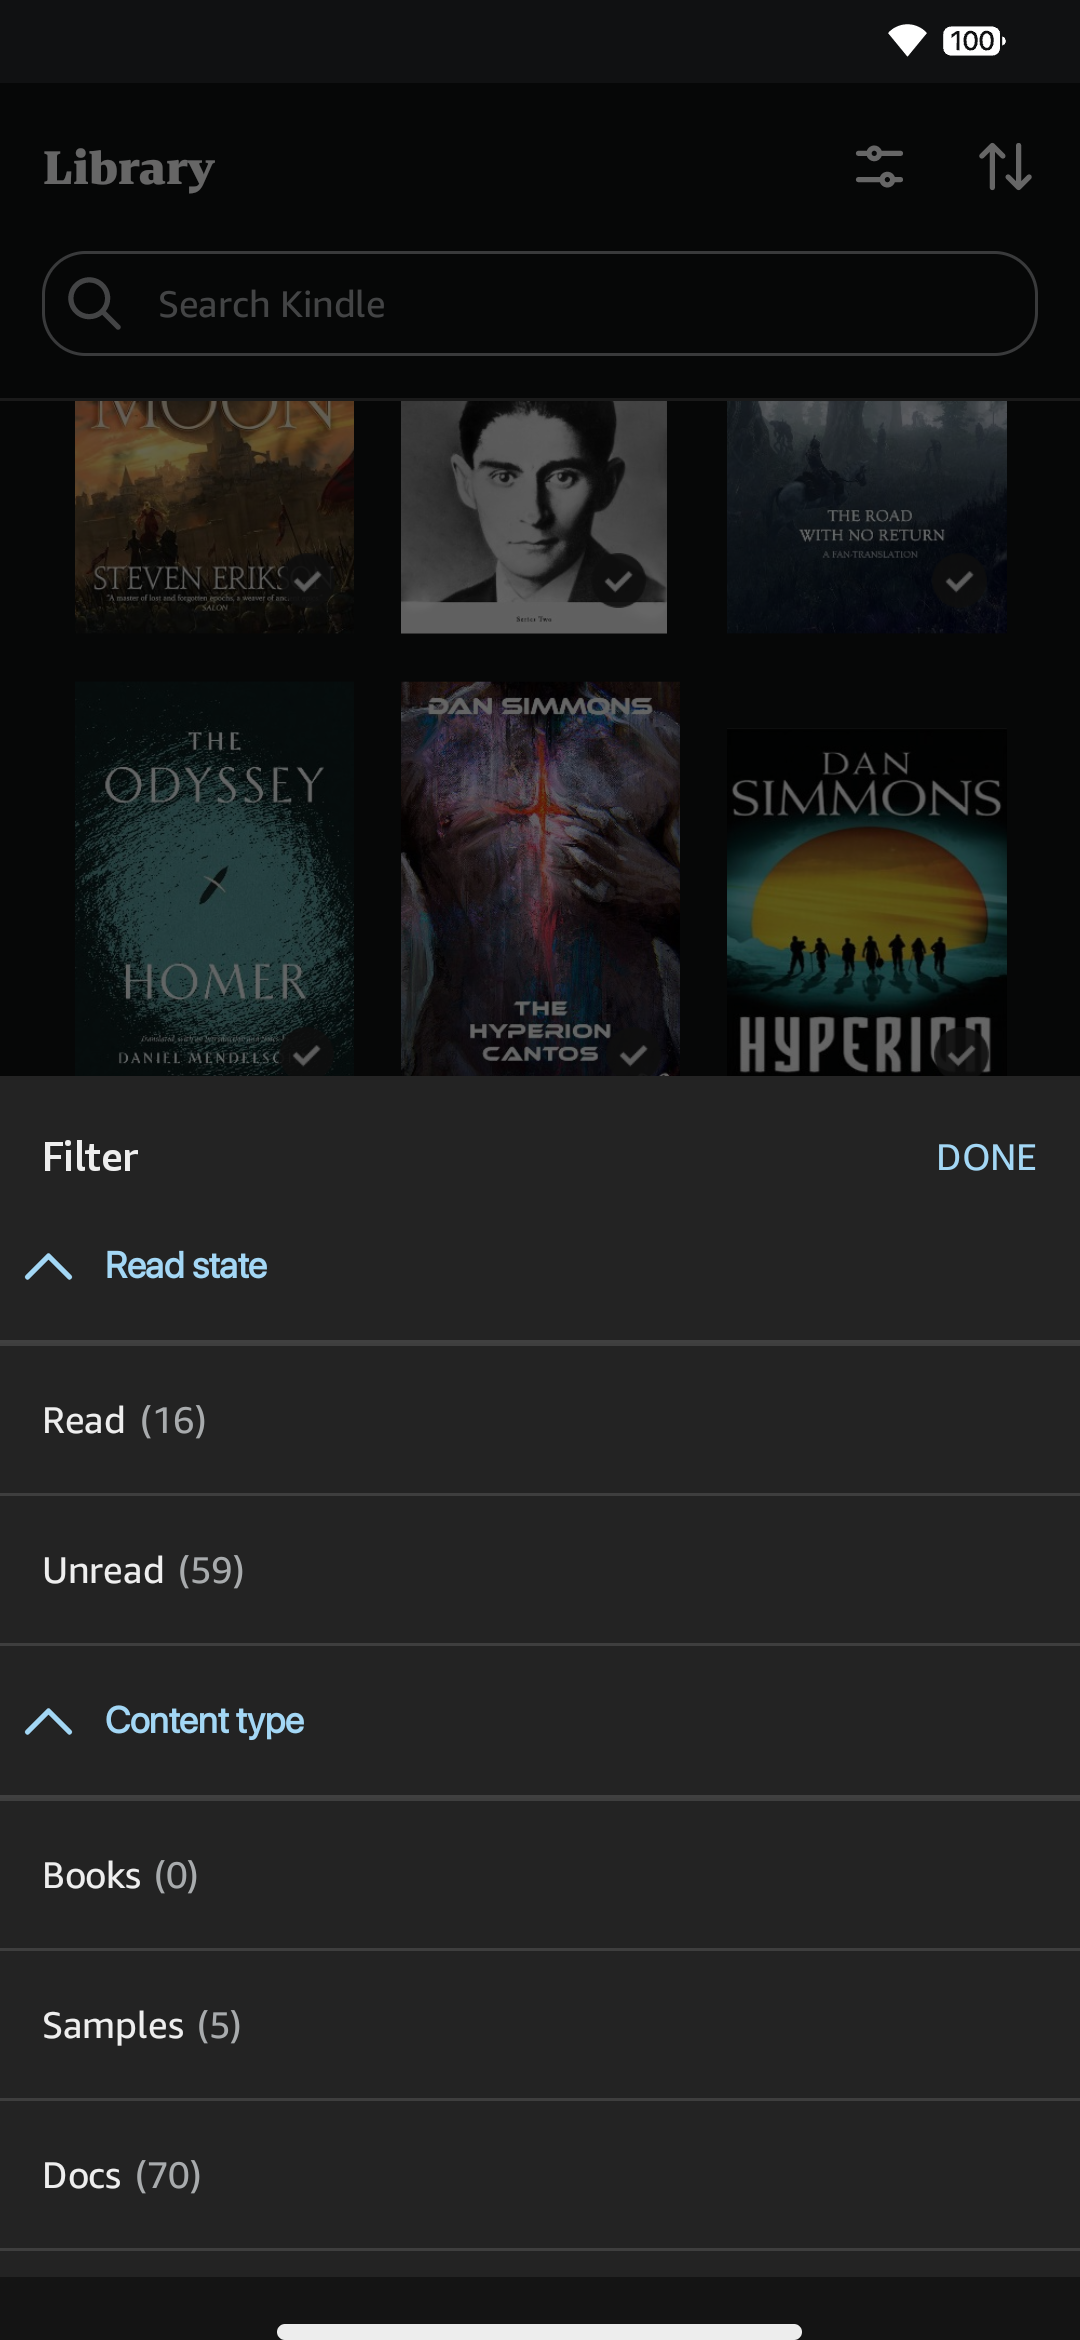
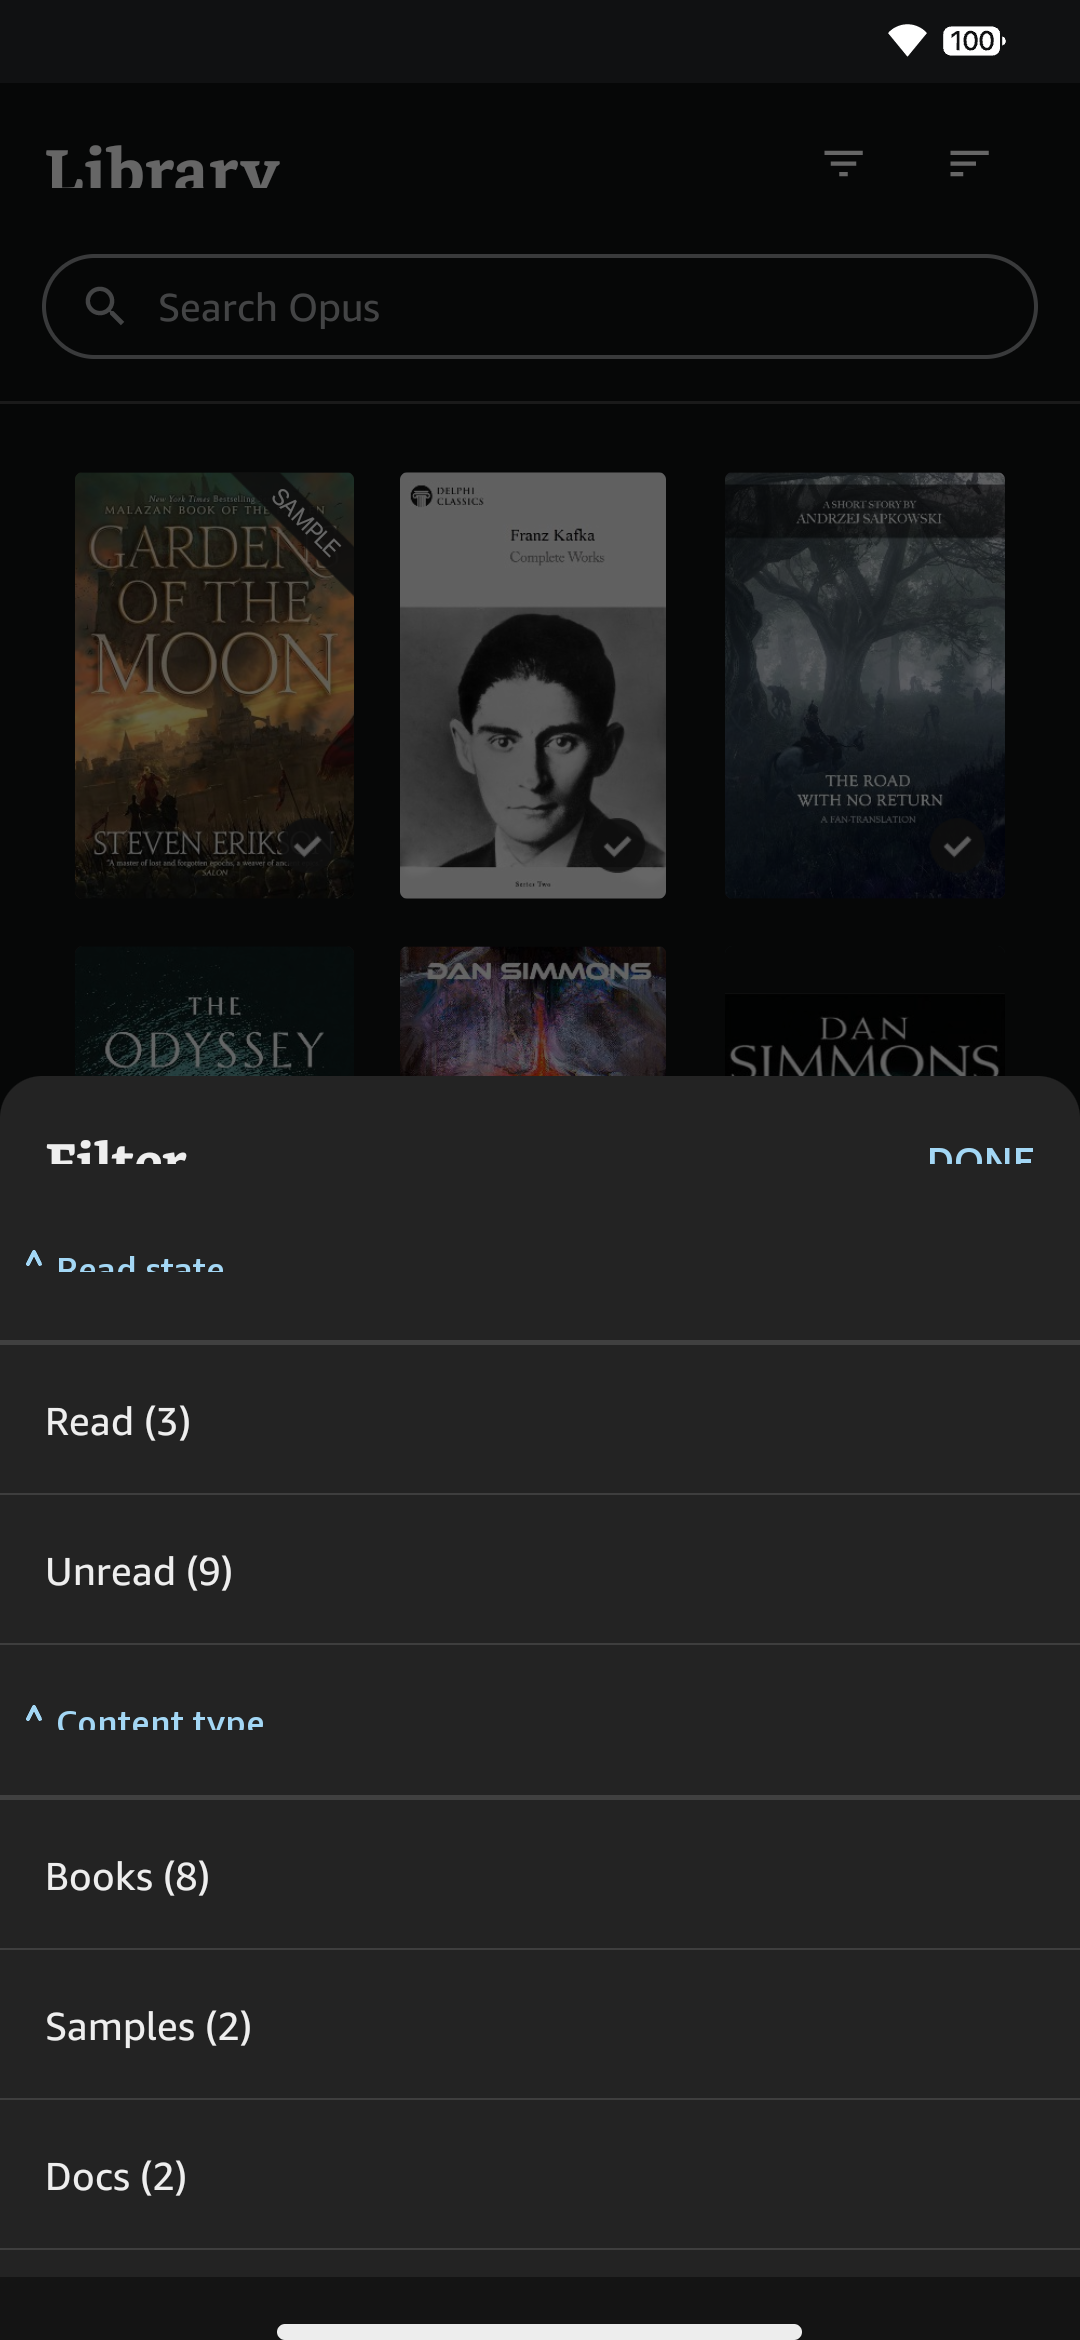
feat(real-ui): calibrate D05 Library filter sheet and verify with honest harness

diff --git a/app/src/main/java/app/opusreader/ui/screens/LibraryFilterSheet.kt b/app/src/main/java/app/opusreader/ui/screens/LibraryFilterSheet.kt
@@ -1,15 +1,18 @@
 package app.opusreader.ui.screens
 
-import androidx.compose.foundation.Image
+import androidx.compose.foundation.Canvas
 import androidx.compose.foundation.background
 import androidx.compose.foundation.clickable
 import androidx.compose.foundation.layout.Box
+import androidx.compose.foundation.layout.Column
 import androidx.compose.foundation.layout.Row
-import androidx.compose.foundation.layout.fillMaxSize
+import androidx.compose.foundation.layout.Spacer
 import androidx.compose.foundation.layout.fillMaxWidth
 import androidx.compose.foundation.layout.height
 import androidx.compose.foundation.layout.padding
 import androidx.compose.foundation.layout.size
+import androidx.compose.foundation.layout.width
+import androidx.compose.foundation.shape.RoundedCornerShape
 import androidx.compose.material.icons.Icons
 import androidx.compose.material.icons.filled.Check
 import androidx.compose.material3.HorizontalDivider
@@ -22,25 +25,30 @@ import androidx.compose.runtime.remember
 import androidx.compose.runtime.setValue
 import androidx.compose.ui.Alignment
 import androidx.compose.ui.Modifier
-import androidx.compose.ui.layout.ContentScale
-import androidx.compose.ui.res.painterResource
+import androidx.compose.ui.draw.clip
+import androidx.compose.ui.graphics.Color
+import androidx.compose.ui.graphics.Path
+import androidx.compose.ui.graphics.StrokeCap
+import androidx.compose.ui.graphics.StrokeJoin
+import androidx.compose.ui.graphics.drawscope.Stroke
 import androidx.compose.ui.text.font.FontWeight
 import androidx.compose.ui.tooling.preview.Preview
 import androidx.compose.ui.unit.dp
 import androidx.compose.ui.unit.sp
-import app.opusreader.R
 import app.opusreader.data.Book
 import app.opusreader.data.ContentType
 import app.opusreader.data.LibraryFilterState
 import app.opusreader.data.SampleBooks
-import app.opusreader.ui.components.OpusBottomSheetContainer
-import app.opusreader.ui.theme.OpusDivider
+import app.opusreader.ui.theme.AmazonEmberFontFamily
+import app.opusreader.ui.theme.BookerlyFontFamily
 import app.opusreader.ui.theme.OpusReaderTheme
-import app.opusreader.ui.theme.OpusScrim
-import app.opusreader.ui.theme.OpusSpacing
-import app.opusreader.ui.theme.OpusTextPrimary
-import app.opusreader.ui.theme.OpusTextSecondary
 import app.opusreader.ui.theme.refPx
+
+private val FilterSheetBg = Color(0xFF232323)
+private val FilterBlue = Color(0xFFA3D7F5)
+private val FilterTextPrimary = Color(0xFFEEEEEE)
+private val FilterSectionDivider = Color(0xFF404040)
+private val FilterItemDivider = Color(0xFF3E3E3E)
 
 @Composable
 fun LibraryFilterSheet(
@@ -54,66 +62,165 @@ fun LibraryFilterSheet(
 
     val readCount = if (allBooks.isNotEmpty()) allBooks.count { it.isRead } else 16
     val unreadCount = if (allBooks.isNotEmpty()) allBooks.count { !it.isRead } else 59
-    val booksCount = if (allBooks.isNotEmpty()) allBooks.count { it.contentType == ContentType.BOOK } else 6
+    val booksCount = if (allBooks.isNotEmpty()) allBooks.count { it.contentType == ContentType.BOOK } else 0
     val samplesCount = if (allBooks.isNotEmpty()) allBooks.count { it.contentType == ContentType.SAMPLE } else 5
     val docsCount = if (allBooks.isNotEmpty()) allBooks.count { it.contentType == ContentType.DOC } else 70
 
-    OpusBottomSheetContainer(
-        title = "Filter",
-        doneButtonText = "DONE",
-        onDoneClick = { onApplyFilter(state) },
-        onCloseClick = onCloseClick,
-        modifier = modifier
-    ) {
-        SectionTitle("Read state")
+    val shape = RoundedCornerShape(topStart = 16.dp, topEnd = 16.dp)
 
+    Column(
+        modifier = modifier
+            .fillMaxWidth()
+            .height(1201.refPx)
+            .clip(shape)
+            .background(FilterSheetBg)
+    ) {
+        // Distance from sheet top (y=1076) to Header (y=1140): 58 px
+        Spacer(modifier = Modifier.height(58.refPx))
+
+        // Header: Filter & DONE (y=1140..1170, h=30 px)
+        Row(
+            modifier = Modifier
+                .fillMaxWidth()
+                .height(30.refPx)
+                .padding(start = 45.refPx, end = 45.refPx),
+            verticalAlignment = Alignment.CenterVertically
+        ) {
+            Text(
+                text = "Filter",
+                fontFamily = BookerlyFontFamily,
+                fontWeight = FontWeight.Bold,
+                fontSize = 20.sp,
+                color = FilterTextPrimary,
+                modifier = Modifier.weight(1f)
+            )
+
+            Text(
+                text = "DONE",
+                fontFamily = AmazonEmberFontFamily,
+                fontWeight = FontWeight.Bold,
+                fontSize = 15.sp,
+                color = FilterBlue,
+                modifier = Modifier.clickable { onApplyFilter(state) }
+            )
+        }
+
+        // Distance from Header (1170) to Section 1 (1250): 79 px
+        Spacer(modifier = Modifier.height(79.refPx))
+
+        // Section 1: ∧ Read state (y=1250..1279, h=29 px)
+        FilterSectionHeader(title = "Read state", height = 29.refPx)
+
+        // Distance to Divider: 68 px
+        Spacer(modifier = Modifier.height(68.refPx))
+
+        // Divider below Section 1 (y=1340..1345, h=5 px)
+        HorizontalDivider(color = FilterSectionDivider, thickness = 5.refPx)
+
+        // Row 1: Read (16) (starts y=1345, text y=1405..1438, ends 1493, h=148 px)
         FilterItemRow(
             label = "Read ($readCount)",
             selected = state.showRead,
             onClick = { state = state.copy(showRead = !state.showRead) }
         )
+
+        // Divider (y=1493..1495, h=2 px)
+        HorizontalDivider(color = FilterItemDivider, thickness = 2.refPx)
+
+        // Row 2: Unread (59) (starts y=1495, text y=1555..1588, ends 1643, h=148 px)
         FilterItemRow(
             label = "Unread ($unreadCount)",
             selected = state.showUnread,
             onClick = { state = state.copy(showUnread = !state.showUnread) }
         )
 
-        HorizontalDivider(color = OpusDivider, thickness = 1.dp)
+        // Divider (y=1643..1645, h=2 px)
+        HorizontalDivider(color = FilterItemDivider, thickness = 2.refPx)
 
-        SectionTitle("Content type")
+        // Distance to Section 2 (1705): 51 px
+        Spacer(modifier = Modifier.height(51.refPx))
 
+        // Section 2: ∧ Content type (y=1705..1739, h=34 px)
+        FilterSectionHeader(title = "Content type", height = 34.refPx)
+
+        // Distance to Divider: 65 px
+        Spacer(modifier = Modifier.height(65.refPx))
+
+        // Divider below Section 2 (y=1795..1800, h=5 px)
+        HorizontalDivider(color = FilterSectionDivider, thickness = 5.refPx)
+
+        // Row 3: Books (0) (starts y=1800, text y=1860..1893, ends 1948, h=148 px)
         FilterItemRow(
             label = "Books ($booksCount)",
             selected = state.showBooks,
             onClick = { state = state.copy(showBooks = !state.showBooks) }
         )
+
+        // Divider (y=1948..1950, h=2 px)
+        HorizontalDivider(color = FilterItemDivider, thickness = 2.refPx)
+
+        // Row 4: Samples (5) (starts y=1950, text y=2010..2045, ends 2098, h=148 px)
         FilterItemRow(
             label = "Samples ($samplesCount)",
             selected = state.showSamples,
             onClick = { state = state.copy(showSamples = !state.showSamples) }
         )
+
+        // Divider (y=2098..2100, h=2 px)
+        HorizontalDivider(color = FilterItemDivider, thickness = 2.refPx)
+
+        // Row 5: Docs (70) (starts y=2100, text y=2160..2193, ends 2248, h=148 px)
         FilterItemRow(
             label = "Docs ($docsCount)",
             selected = state.showDocs,
             onClick = { state = state.copy(showDocs = !state.showDocs) }
         )
+
+        // Divider (y=2248..2250, h=2 px)
+        HorizontalDivider(color = FilterItemDivider, thickness = 2.refPx)
+
+        // Distance to sheet bottom: 25 px
+        Spacer(modifier = Modifier.height(25.refPx))
     }
 }
 
 @Composable
-private fun SectionTitle(title: String) {
-    Text(
-        text = title,
-        color = OpusTextSecondary,
-        fontSize = 13.sp,
-        fontWeight = FontWeight.SemiBold,
-        modifier = Modifier.padding(
-            start = OpusSpacing.standard,
-            end = OpusSpacing.standard,
-            top = OpusSpacing.medium,
-            bottom = OpusSpacing.small
+private fun FilterSectionHeader(title: String, height: androidx.compose.ui.unit.Dp = 30.refPx) {
+    Row(
+        modifier = Modifier
+            .fillMaxWidth()
+            .height(height)
+            .padding(start = 24.refPx),
+        verticalAlignment = Alignment.CenterVertically
+    ) {
+        Canvas(modifier = Modifier.size(20.refPx, 20.refPx)) {
+            val strokeWidth = 4.refPx.toPx()
+            val path = Path().apply {
+                moveTo(strokeWidth, size.height - strokeWidth)
+                lineTo(size.width / 2f, strokeWidth)
+                lineTo(size.width - strokeWidth, size.height - strokeWidth)
+            }
+            drawPath(
+                path = path,
+                color = FilterBlue,
+                style = Stroke(
+                    width = strokeWidth,
+                    cap = StrokeCap.Round,
+                    join = StrokeJoin.Round
+                )
+            )
+        }
+
+        Spacer(modifier = Modifier.width(12.refPx))
+
+        Text(
+            text = title,
+            fontFamily = AmazonEmberFontFamily,
+            fontWeight = FontWeight.Bold,
+            fontSize = 13.5.sp,
+            color = FilterBlue
         )
-    )
+    }
 }
 
 @Composable
@@ -122,27 +229,37 @@ private fun FilterItemRow(
     selected: Boolean,
     onClick: () -> Unit
 ) {
-    Row(
+    Box(
         modifier = Modifier
             .fillMaxWidth()
-            .clickable { onClick() }
-            .padding(horizontal = OpusSpacing.standard, vertical = 14.dp),
-        verticalAlignment = Alignment.CenterVertically
+            .height(148.refPx)
+            .clickable(onClick = onClick)
+            .padding(start = 45.refPx, end = 45.refPx),
+        contentAlignment = Alignment.TopStart
     ) {
-        Text(
-            text = label,
-            color = OpusTextPrimary,
-            fontSize = 15.sp,
-            modifier = Modifier.weight(1f)
-        )
-
-        if (selected) {
-            Icon(
-                imageVector = Icons.Default.Check,
-                contentDescription = "Selected",
-                tint = OpusTextPrimary,
-                modifier = Modifier.size(20.dp)
+        Row(
+            modifier = Modifier
+                .fillMaxWidth()
+                .padding(top = 49.refPx),
+            verticalAlignment = Alignment.CenterVertically
+        ) {
+            Text(
+                text = label,
+                fontFamily = AmazonEmberFontFamily,
+                fontWeight = FontWeight.Normal,
+                fontSize = 15.sp,
+                color = FilterTextPrimary,
+                modifier = Modifier.weight(1f)
             )
+
+            if (selected) {
+                Icon(
+                    imageVector = Icons.Default.Check,
+                    contentDescription = "Selected",
+                    tint = FilterBlue,
+                    modifier = Modifier.size(20.dp)
+                )
+            }
         }
     }
 }

diff --git a/app/src/main/java/app/opusreader/navigation/OpusNavHost.kt b/app/src/main/java/app/opusreader/navigation/OpusNavHost.kt
@@ -234,7 +234,8 @@ fun OpusNavHost(
                             onApplyFilter = { newFilter ->
                                 bookRepository.setFilter(newFilter)
                                 navController.popBackStack()
-                            }
+                            },
+                            modifier = Modifier.align(Alignment.BottomCenter)
                         )
                     }
                 }
@@ -272,7 +273,8 @@ fun OpusNavHost(
                                     LibraryViewMode.LIST -> navController.navigate(NavRoutes.LIBRARY_LIST)
                                     LibraryViewMode.COLLECTIONS -> navController.navigate(NavRoutes.COLLECTIONS)
                                 }
-                            }
+                            },
+                            modifier = Modifier.align(Alignment.BottomCenter)
                         )
                     }
                 }

diff --git a/app/src/main/java/app/opusreader/data/BookRepository.kt b/app/src/main/java/app/opusreader/data/BookRepository.kt
@@ -161,10 +161,13 @@ class FakeBookRepository(
         filter: LibraryFilterState,
         sort: LibrarySortOrder
     ): List<Book> {
+        val hasReadFilter = filter.showRead || filter.showUnread
+        val hasTypeFilter = filter.showBooks || filter.showSamples || filter.showDocs
+
         return books
             .filter { book ->
-                val readMatch = if (book.isRead) filter.showRead else filter.showUnread
-                val typeMatch = when (book.contentType) {
+                val readMatch = if (!hasReadFilter) true else (if (book.isRead) filter.showRead else filter.showUnread)
+                val typeMatch = if (!hasTypeFilter) true else when (book.contentType) {
                     ContentType.BOOK -> filter.showBooks
                     ContentType.SAMPLE -> filter.showSamples
                     ContentType.DOC -> filter.showDocs

diff --git a/app/src/main/java/app/opusreader/data/Book.kt b/app/src/main/java/app/opusreader/data/Book.kt
@@ -34,11 +34,11 @@ enum class LibraryViewMode {
 }
 
 data class LibraryFilterState(
-    val showRead: Boolean = true,
-    val showUnread: Boolean = true,
-    val showBooks: Boolean = true,
-    val showSamples: Boolean = true,
-    val showDocs: Boolean = true
+    val showRead: Boolean = false,
+    val showUnread: Boolean = false,
+    val showBooks: Boolean = false,
+    val showSamples: Boolean = false,
+    val showDocs: Boolean = false
 )
 
 data class CollectionItem(

diff --git a/docs/FIDELITY_REPORT.md b/docs/FIDELITY_REPORT.md
@@ -8,7 +8,7 @@ Thresholds per screen (outside masks):
 
 | ID | Screen Name | Reference File | Diff % | Worst Offset (px) | Liveness | Scroll | Status | Notes |
 |---|---|---|---|---|---|---|---|---|
-| D04 | Settings | `docs/reference/04_settings.png` | 8.16% | 6 px | PASS | PASS | FAIL | bad: 8.16%, dy: 6px |
+| D05 | Library filter sheet | `docs/reference/05_library-filter-sheet.png` | 24.22% | 0 px | PASS | N/A | FAIL | bad: 24.22%, dy: 0px |
 
 ## Summary
 - **Total canonical screens evaluated**: 1
